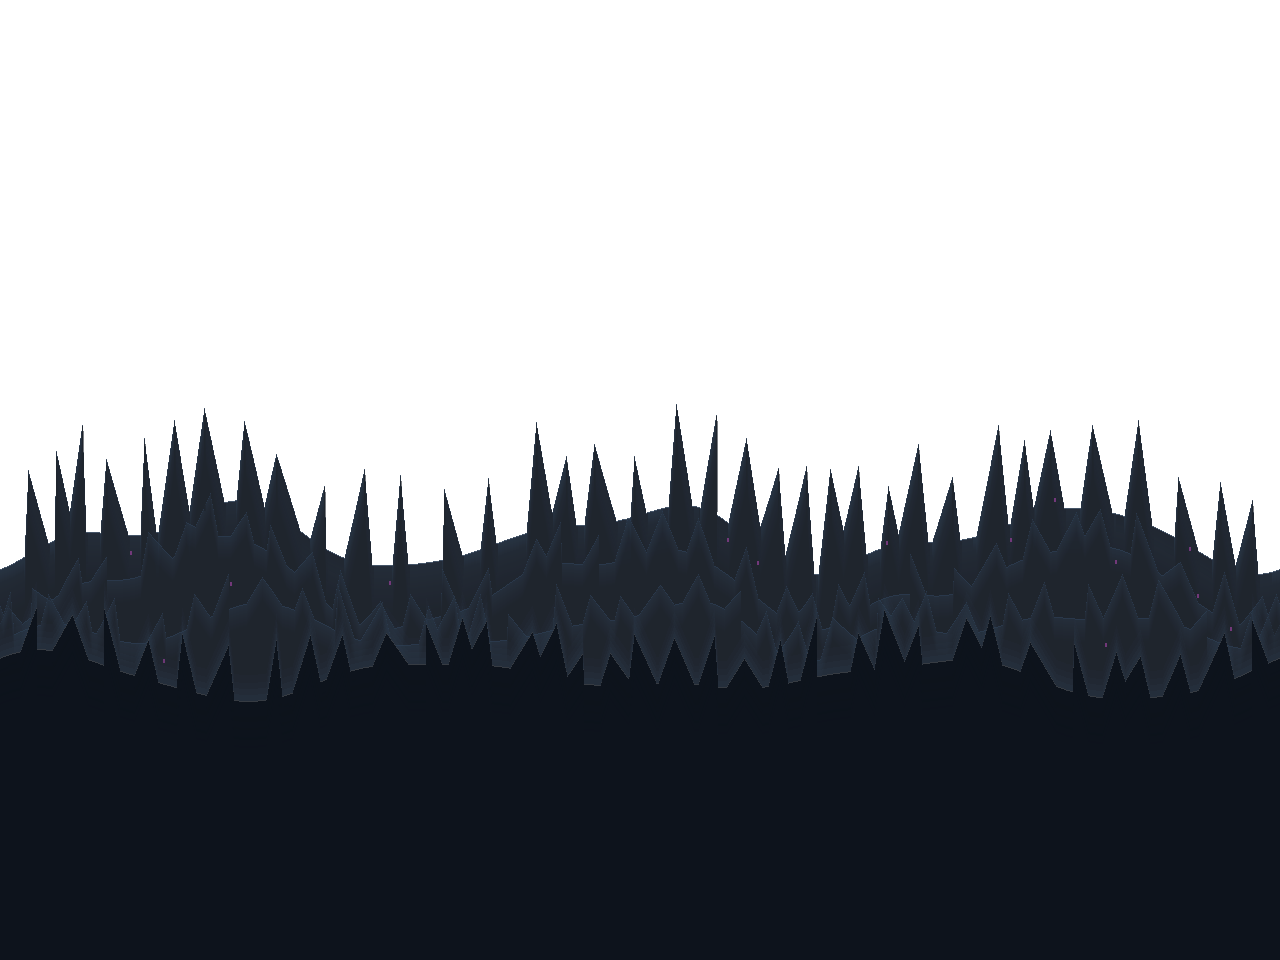
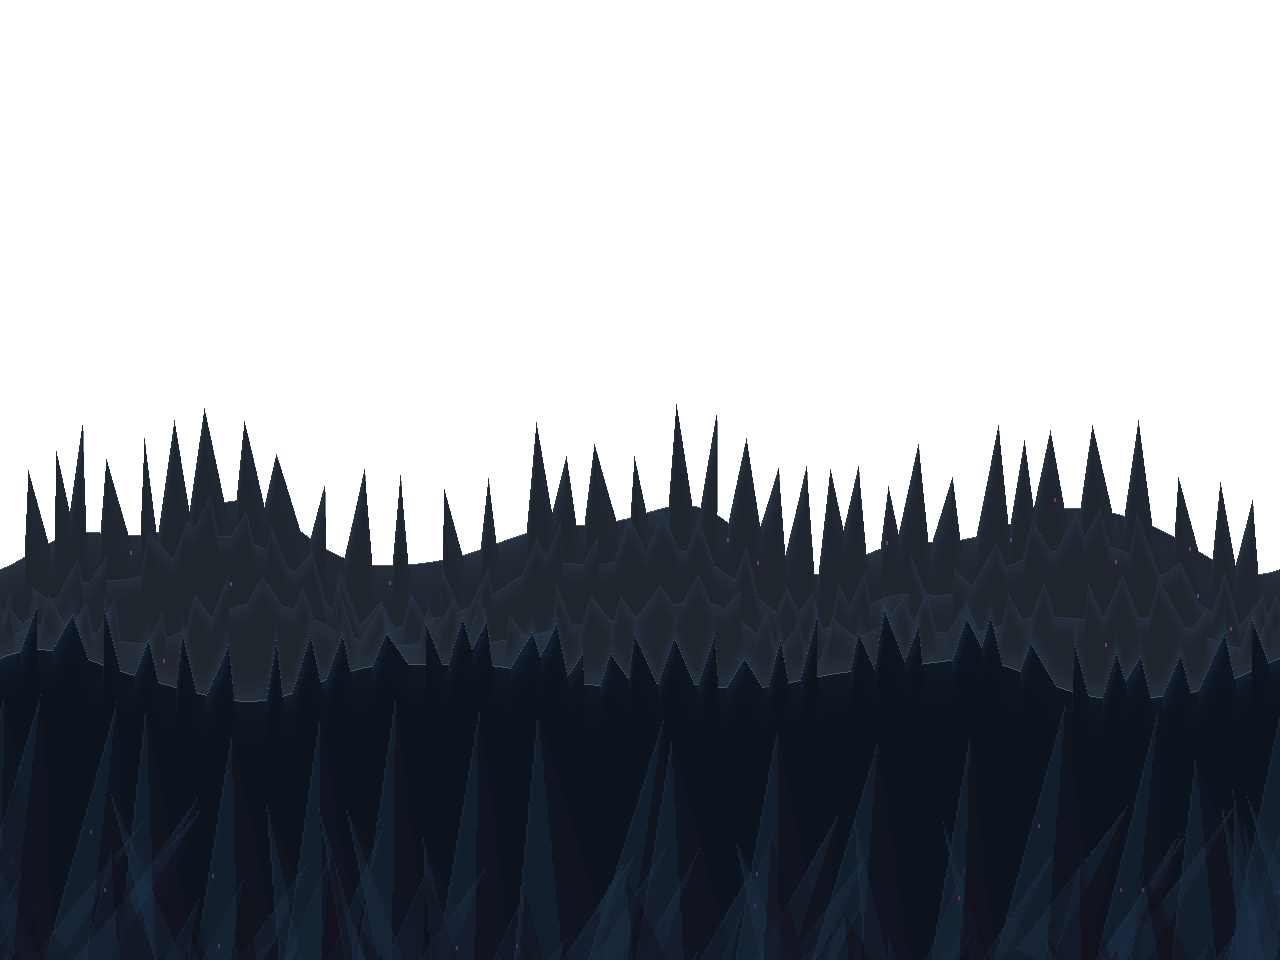
Pass 648: crystal grows through the halls' near plane
The crystal halls' ridge near plane was one flat fill (its light was its own
color); it is lit by the far rim now, and two rows of faceted crystal masses
grow up through it (bible 12.124).

diff --git a/tools/art/tilegen.py b/tools/art/tilegen.py
@@ -4668,6 +4668,91 @@ def _ridge_detail(img, zone, far_h, near_tops, rng, houses=None, ground=None):
         placed += 1
 
 
+# The crystal halls' near plane (design bible 12.124, pass 648). The pass 645 grade read
+# the Evercrown's backdrop as a dead void of flat purple: under its shard crest the near
+# plane was one fill to the layer's foot, and its lights did not show, since its body is
+# the darkest step of the ramp and the plane's rim was that same step. The near plane is
+# now lit in the next step up, and two rows of great crystal masses grow up through it
+# from below, each a leader and lesser shards, lit on the west facet, dark on the east,
+# with a lit west edge and a few glints, the nearer row darker.
+NEAR_MASS_ROWS = (  # per row: the foot (canvas px below the near crest's base), height range, alpha of body, lit facet, edge, dark facet
+    {"foot": 150 * D, "tall": (105 * D, 150 * D), "half": (16, 26), "step": (30, 52), "body": 34, "lit": 72, "edge": 120, "dark": 70},
+    {"foot": 172 * D, "tall": (60 * D, 92 * D), "half": (18, 30), "step": (40, 70), "body": 16, "lit": 44, "edge": 84, "dark": 110},
+)
+NEAR_MASS_CLEAR = 8 * D   # a mass's tip stays this far under the near crest
+NEAR_GLINT_SHARE = 0.5    # the share of masses with a glint on their lit facet
+
+
+def _near_shard(img, fx, fy, half, length, ang, row, rim, seam, glint, tops, rng):
+    """One great shard of the near plane, rooted at fx, fy (canvas px) and pointing
+    along `ang` (radians from straight up, east positive): its west facet lit, its
+    east facet dark, its west edge lit, laid in D-pixel blocks over the plane only."""
+    ux, uy = math.sin(ang), -math.cos(ang)       # along the shard, foot to tip
+    px, py = -uy, ux                              # across it, west to east (for a shard pointing up)
+    tx, ty = fx + ux * length, fy + uy * length
+    cut = []
+    xs = [fx - px * half, fx + px * half, tx]
+    ys = [fy - py * half, fy + py * half, ty]
+    x0, x1 = int(min(xs)) // D * D, int(max(xs)) + D
+    y0, y1 = max(0, int(min(ys)) // D * D), min(BG_H, int(max(ys)) + D)
+    for by in range(y0, y1, D):
+        for bx in range(x0, x1, D):
+            cx, cy = bx + D / 2 - fx, by + D / 2 - fy
+            along = cx * ux + cy * uy
+            if not 0 <= along <= length:
+                continue
+            across = cx * px + cy * py
+            w = half * (1 - along / length)
+            if abs(across) > w:
+                continue
+            if by < tops[bx % BG_W] + NEAR_MASS_CLEAR:
+                continue
+            cut.append((bx, by, across, w))
+    for bx, by, across, w in cut:
+        name, alpha = (rim, row["lit"]) if across < 0 else (seam, row["dark"])
+        if across < 0 and across < -w + D:
+            alpha = row["edge"]                   # the lit west edge
+        for yy in range(by, by + D):
+            for xx in range(bx, bx + D):
+                if img.getpixel((xx % BG_W, yy))[3]:
+                    _over(img, xx, yy, rim, row["body"])
+                    _over(img, xx, yy, name, alpha)
+    if glint and cut and rng.random() < NEAR_GLINT_SHARE:
+        lit = [k for k in cut if k[2] < -k[3] * 0.3]
+        if lit:
+            bx, by, _, _ = lit[rng.randrange(len(lit))]
+            for yy in range(by, by + 2 * D):
+                for xx in range(bx, bx + D):
+                    _over(img, xx, yy, glint, 200)
+    return len(cut)
+
+
+def _near_crystal(img, near_tops, near_base, rim, seam, glint, rng):
+    """Two rows of great crystal masses through the crystal halls' near plane (12.124).
+    Returns each mass: its foot, lean, reach and how many blocks it laid."""
+    masses = []
+    for row in NEAR_MASS_ROWS:
+        x = rng.randint(0, 20) * D
+        while x < BG_W:
+            fy = near_base + row["foot"] + rng.randint(-6, 6) * D
+            lean = rng.uniform(-0.18, 0.18)
+            # Its tip stays under the near crest rather than being cut off by it.
+            room = (fy - near_tops[x % BG_W] - 2 * NEAR_MASS_CLEAR) / math.cos(lean)
+            reach = min(rng.randint(*row["tall"]), int(room))
+            half = rng.randint(*row["half"]) * D
+            mass = {"x": x, "foot": fy, "lean": lean, "reach": reach, "blocks": 0}
+            # The lesser shards first, fanned beside the leader, so it lies over them.
+            for _ in range(rng.randint(1, 3)):
+                f = lean + rng.choice((-1, 1)) * rng.uniform(0.2, 0.45)
+                at = x + rng.randint(-half // D, half // D) * D
+                mass["blocks"] += _near_shard(img, at, fy, half * rng.uniform(0.5, 0.75), reach * rng.uniform(0.45, 0.75),
+                                              f, row, rim, seam, None, near_tops, rng)
+            mass["blocks"] += _near_shard(img, x, fy, half, reach, lean, row, rim, seam, glint, near_tops, rng)
+            masses.append(mass)
+            x += rng.randint(*row["step"]) * D
+    return masses
+
+
 def ridge(zone):
     """The distant ridgeline silhouette for `zone` (design bible 12.12): the
     zone's far crest filled from the horizon down, over a transparent sky, so
@@ -4702,7 +4787,14 @@ def ridge(zone):
                 if under[3]:
                     img.putpixel((x, yy), blend(under, c(rim), alpha))
             y -= band
-    _ridge_plane(img, near, near_base, _ridge_shade(body), body, 255, faces, RIDGE_SKY_A[1] if formed else 0)
+    # A body at the bottom of its ramp has no darker step, so the near plane's light is
+    # the far plane's rim (12.124): until pass 648 the crystal halls' near plane was lit
+    # in its own fill and showed nothing.
+    near_body = _ridge_shade(body)
+    near_rim = rim if near_body == body else body
+    _ridge_plane(img, near, near_base, near_body, near_rim, 255, faces, RIDGE_SKY_A[1] if formed else 0)
+    if RIDGE_KIND[zone] == "shard":
+        _near_crystal(img, near_tops, near_base, near_rim, "night-0", RIDGE_LIGHT.get(zone), near_rng)
     if spires:
         # A near spire's west wall catches the light down to the ground it stands on.
         for x in range(BG_W):

diff --git a/tools/art/test_tilegen.py b/tools/art/test_tilegen.py
@@ -2393,5 +2393,59 @@ def test_vorrhallows_near_glass_grows_through_its_stone():
         assert far_seam >= 3, f"the growth at {rx},{ry} has no seam past its crust ({far_seam} px)"
 
 
+def _near_band(zone):
+    """The crystal hall's near plane below its crest: the ridge, the near crest's tops
+    and the band's rows (from the lowest crest top's clearance to the layer's foot)."""
+    import random
+    img = tg.ridge(zone)
+    rng = random.Random(sum(ord(ch) for ch in zone) + 2600)
+    near = [v * tg.RIDGE_NEAR_SCALE for v in tg._ridge_profile(tg.RIDGE_KIND[zone], rng)]
+    near_base = tg.RIDGE_BASE + tg.RIDGE_NEAR_DROP
+    tops = [near_base - int(round(v)) for v in near]
+    return img, tops, range(max(tops) + 20 * tg.D, tg.BG_H)
+
+
+def test_the_crystal_halls_near_plane_holds_crystal_masses():
+    # The pass 645 grade read the Evercrown's backdrop as a dead void of flat purple:
+    # its ridge's near plane was one fill from under its crest to the layer's foot, and
+    # its light was its own fill. Now it is lit a step up the ramp and great crystal
+    # masses grow up through it (bible 12.124, pass 648), each lit on its west facet and
+    # dark on its east. (No masses fails the first check; masses with no facets the
+    # third; the near plane lit in its own fill, the last.)
+    for zone in ("evercrown", "vorrhallow"):
+        img, tops, rows = _near_band(zone)
+        px = img.load()
+        fill = tg.c(tg._ridge_shade(tg.RIDGE_COLOR[zone][0]))[:3]
+        cells = [(x, y) for y in rows for x in range(0, tg.BG_W, tg.D)]
+        off = [p for p in cells if px[p][:3] != fill]
+        share = len(off) / len(cells)
+        assert 0.25 <= share <= 0.9, f"{zone}: {share:.2f} of the near plane's band differs from its fill"
+        # The forms reach into the band's top half, not only the layer's foot.
+        upper = [p for p in off if p[1] < rows.start + (rows.stop - rows.start) // 2]
+        assert len(upper) > len(off) * 0.15, f"{zone}: the masses keep to the foot ({len(upper)} of {len(off)})"
+        # Lit facets and dark ones: some of the forms well over the fill, and some (the
+        # east facets, laid in the night's darkest step) no lighter than it.
+        lum = lambda col: col[0] * 3 + col[1] * 6 + col[2]
+        lighter = sum(1 for p in off if lum(px[p]) > lum(fill) + 60)
+        darker = sum(1 for p in off if lum(px[p]) < lum(fill) + 20)
+        assert lighter > len(cells) * 0.05 and darker > len(cells) * 0.05, \
+            f"{zone}: lit {lighter}, dark {darker} of {len(cells)}"
+        # The near crest catches the light: just under it the plane is lighter than its fill.
+        lit = sum(1 for x in range(0, tg.BG_W, tg.D) if lum(px[x, tops[x] + 2 * tg.D]) > lum(fill) + 20)
+        assert lit > tg.BG_W // tg.D // 3, f"{zone}: the near crest is lit in only {lit} columns"
+    # Every mass's tip stays under the near crest: no mass is cut off by it.
+    import random
+    rng = random.Random(7)
+    from PIL import Image
+    img = Image.new("RGBA", (tg.BG_W, tg.BG_H), tg.c("crystal-0"))
+    tops = [tg.RIDGE_BASE + tg.RIDGE_NEAR_DROP + 60 * tg.D] * tg.BG_W  # a low crest, under the tallest reach
+    masses = tg._near_crystal(img, tops, tg.RIDGE_BASE + tg.RIDGE_NEAR_DROP, "crystal-1", "night-0", "crystal-2", rng)
+    assert len(masses) >= 20, f"only {len(masses)} masses"
+    for m in masses:
+        tip = m["foot"] - m["reach"] * math.cos(m["lean"])
+        assert tip >= tops[0] + tg.NEAR_MASS_CLEAR, f"a mass's tip ({tip:.0f}) rises into the crest ({tops[0]})"
+        assert m["blocks"] > 0
+
+
 if __name__ == "__main__":
     main()

diff --git a/docs/design-bible.md b/docs/design-bible.md
@@ -3170,6 +3170,15 @@ Every form is drawn in 2-pixel blocks, only where the shade's field is at least 
 
 Judged by eye at 1x and 2x in `heartwood/grub_burrows` (roots hanging into the dark over the tunnel), `evercrown/proving_scar` (violet cracks), `tower/old_flue` and `vorrhallow/waterfall_stair`. `tests/test_deep_shade.gd` holds it: `test_the_deepest_mass_holds_its_zones_forms` and `test_the_deep_forms_are_the_rooms_own_and_only_where_meant`.
 
+### 12.124 Crystal grows through the halls' near plane (pass 648)
+
+The grade of pass 645 named the Evercrown's "flat purple" a dead void. In a tall room such as `evercrown/veins` a band of the backdrop between the hanging tendrils and the floor was one value: the ridge's near plane (12.83), filled from under its crest to the layer's foot. Its lights did not show either. The two crystal halls' ridge body is the darkest step of its ramp (12.48), and the near plane takes its fill one step darker than that body and its light from the body itself, so in these two zones the fill and the light were the same color.
+
+- **The near plane's light.** Where the body has no darker step, the near plane is lit by the far plane's rim instead (`tilegen.py`, `ridge`), so its crest, its sky light and its lit west faces show.
+- **Crystal masses** (`_near_crystal`, `NEAR_MASS_ROWS`). Two rows of great crystal masses grow up through the near plane from below the layer's foot, each a leader and one to three lesser shards fanned beside it. Each shard is lit on its west facet and laid in the night's darkest step on its east, with a lit west edge, in 2-pixel blocks. The nearer row is darker and broader. A mass's tip stays under the near crest (`NEAR_MASS_CLEAR`) rather than being cut off by it, and half of the leaders carry a glint of the zone's crystal on the lit facet. Only the two crystal halls ("shard" ridges) have them; the other zones' near planes are unchanged.
+
+Judged by eye at 1x and 2x in `evercrown/veins`, `evercrown/threshold` and `vorrhallow/flooded_hall`. The first try drew narrow shards that read as a field of grass blades; the masses are now about twice as broad, with less lean. `test_the_crystal_halls_near_plane_holds_crystal_masses` in `tools/art/test_tilegen.py` holds it.
+
 ## 13. Asset Production Plan
 
 ### 13.1 Tools and when to use each
